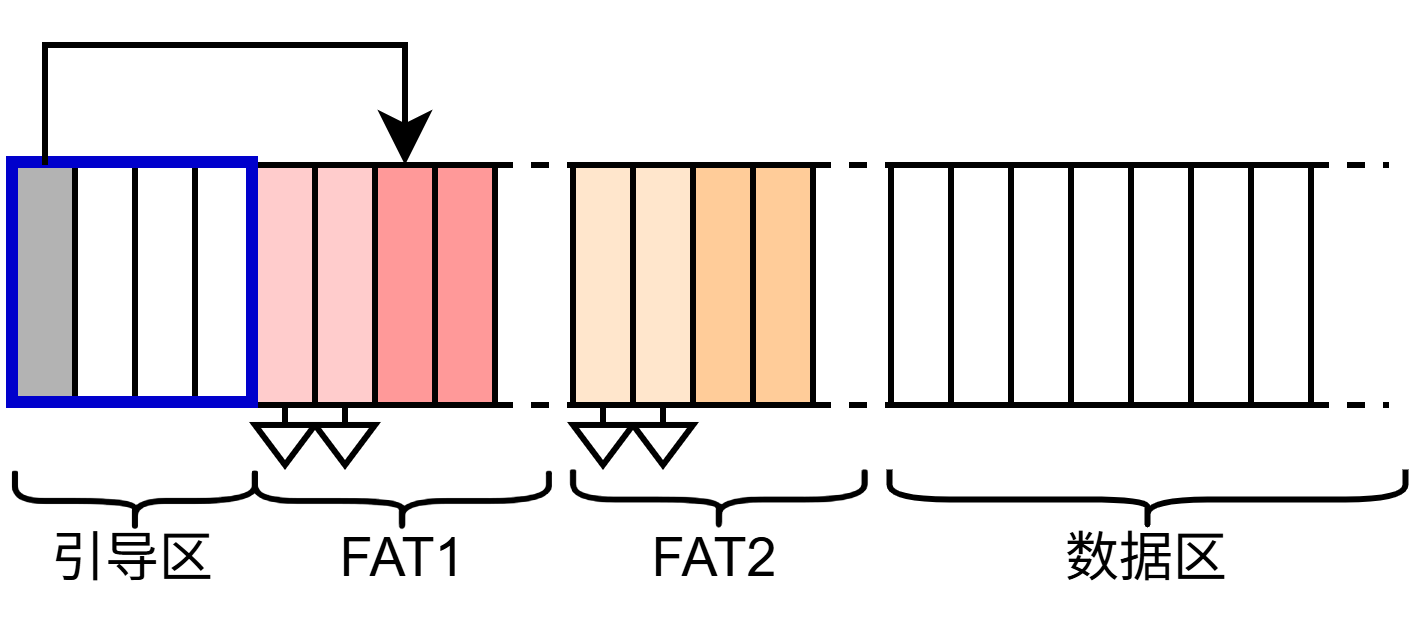
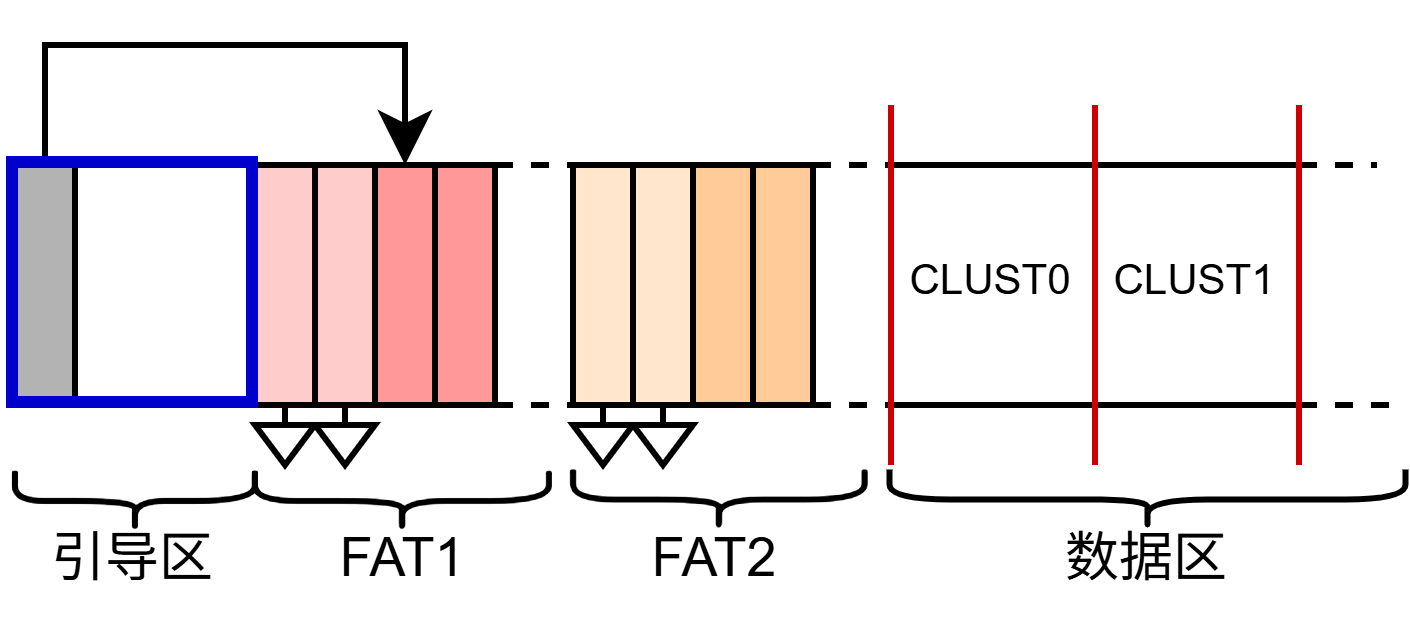
exp_5: Update report figures and wording

Changed region(s): [[0.6241, 0.1827, 0.9674, 0.7308], [0.0936, 0.274, 0.156, 0.6394]]

diff --git a/exp_5/myfs/src/lib.rs b/exp_5/myfs/src/lib.rs
@@ -547,7 +547,7 @@ impl<D: BufferedBlockDevice> MyFileSystem<D> {
     /// Read parameters from the underlying device and open a filesystem from it.
     pub fn open_on_device(mut device: D) -> Result<Self, FsError> {
         let boot = read_boot_sector_from_device(&mut device)?;
-        validate_boot_sector_against_device(&boot, &device)?;
+        validate_boot_sector_against_device(&device, &boot)?;
         let fat_m = read_fat_cache_from_device(&mut device, &boot)?;
 
         debug!(
@@ -1502,10 +1502,12 @@ fn get_fat_block_count(
     fat_copies: u16,
     blocks_per_cluster: u16,
 ) -> u16 {
+    // Initial guess.
     let mut fat_blocks = 1u16;
     loop {
         let data_start = 1u32 + u32::from(fat_copies) * u32::from(fat_blocks);
         if data_start >= u32::from(block_count) {
+            // All blocks are occupied by FAT.
             return fat_blocks;
         }
         let data_clusters = (u32::from(block_count) - data_start) / u32::from(blocks_per_cluster);
@@ -1533,8 +1535,8 @@ fn read_boot_sector_from_device<D: BufferedBlockDevice>(
 }
 
 fn validate_boot_sector_against_device<D: BufferedBlockDevice>(
-    boot: &BootSector,
     device: &D,
+    boot: &BootSector,
 ) -> Result<(), FsError> {
     if usize::from(boot.block_size) != device.block_size() {
         return Err(FsError::CorruptFs(format!(
